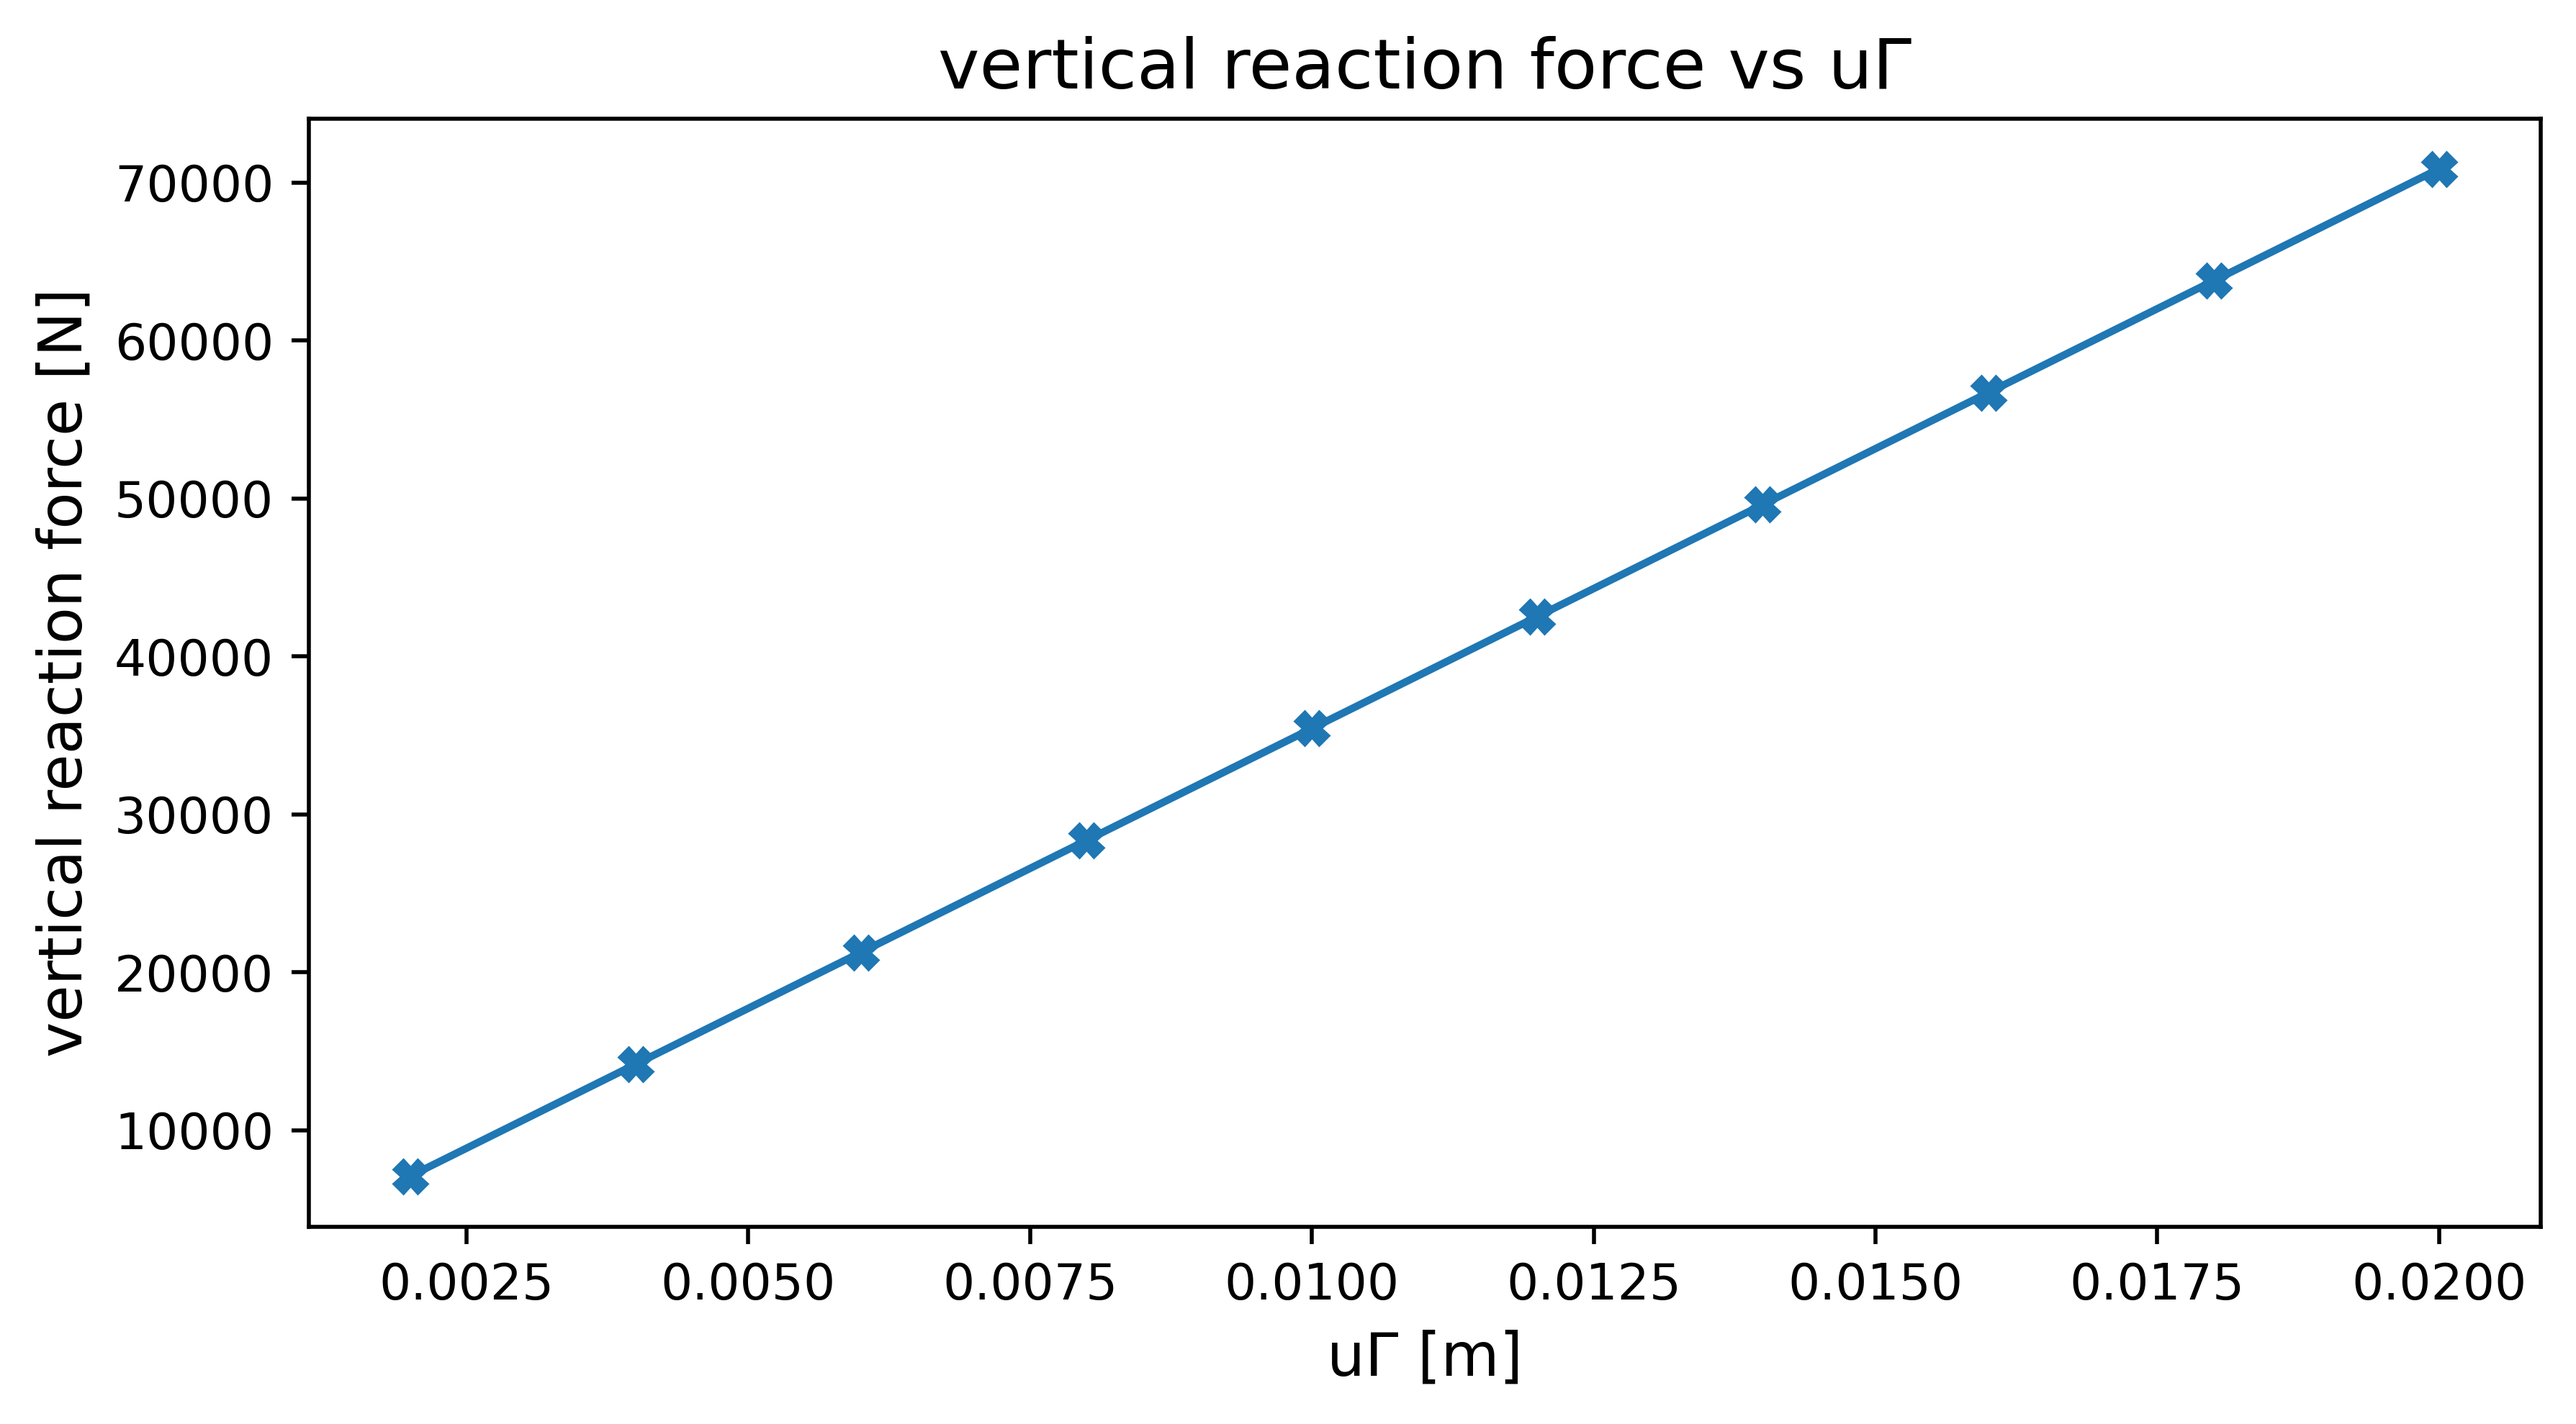
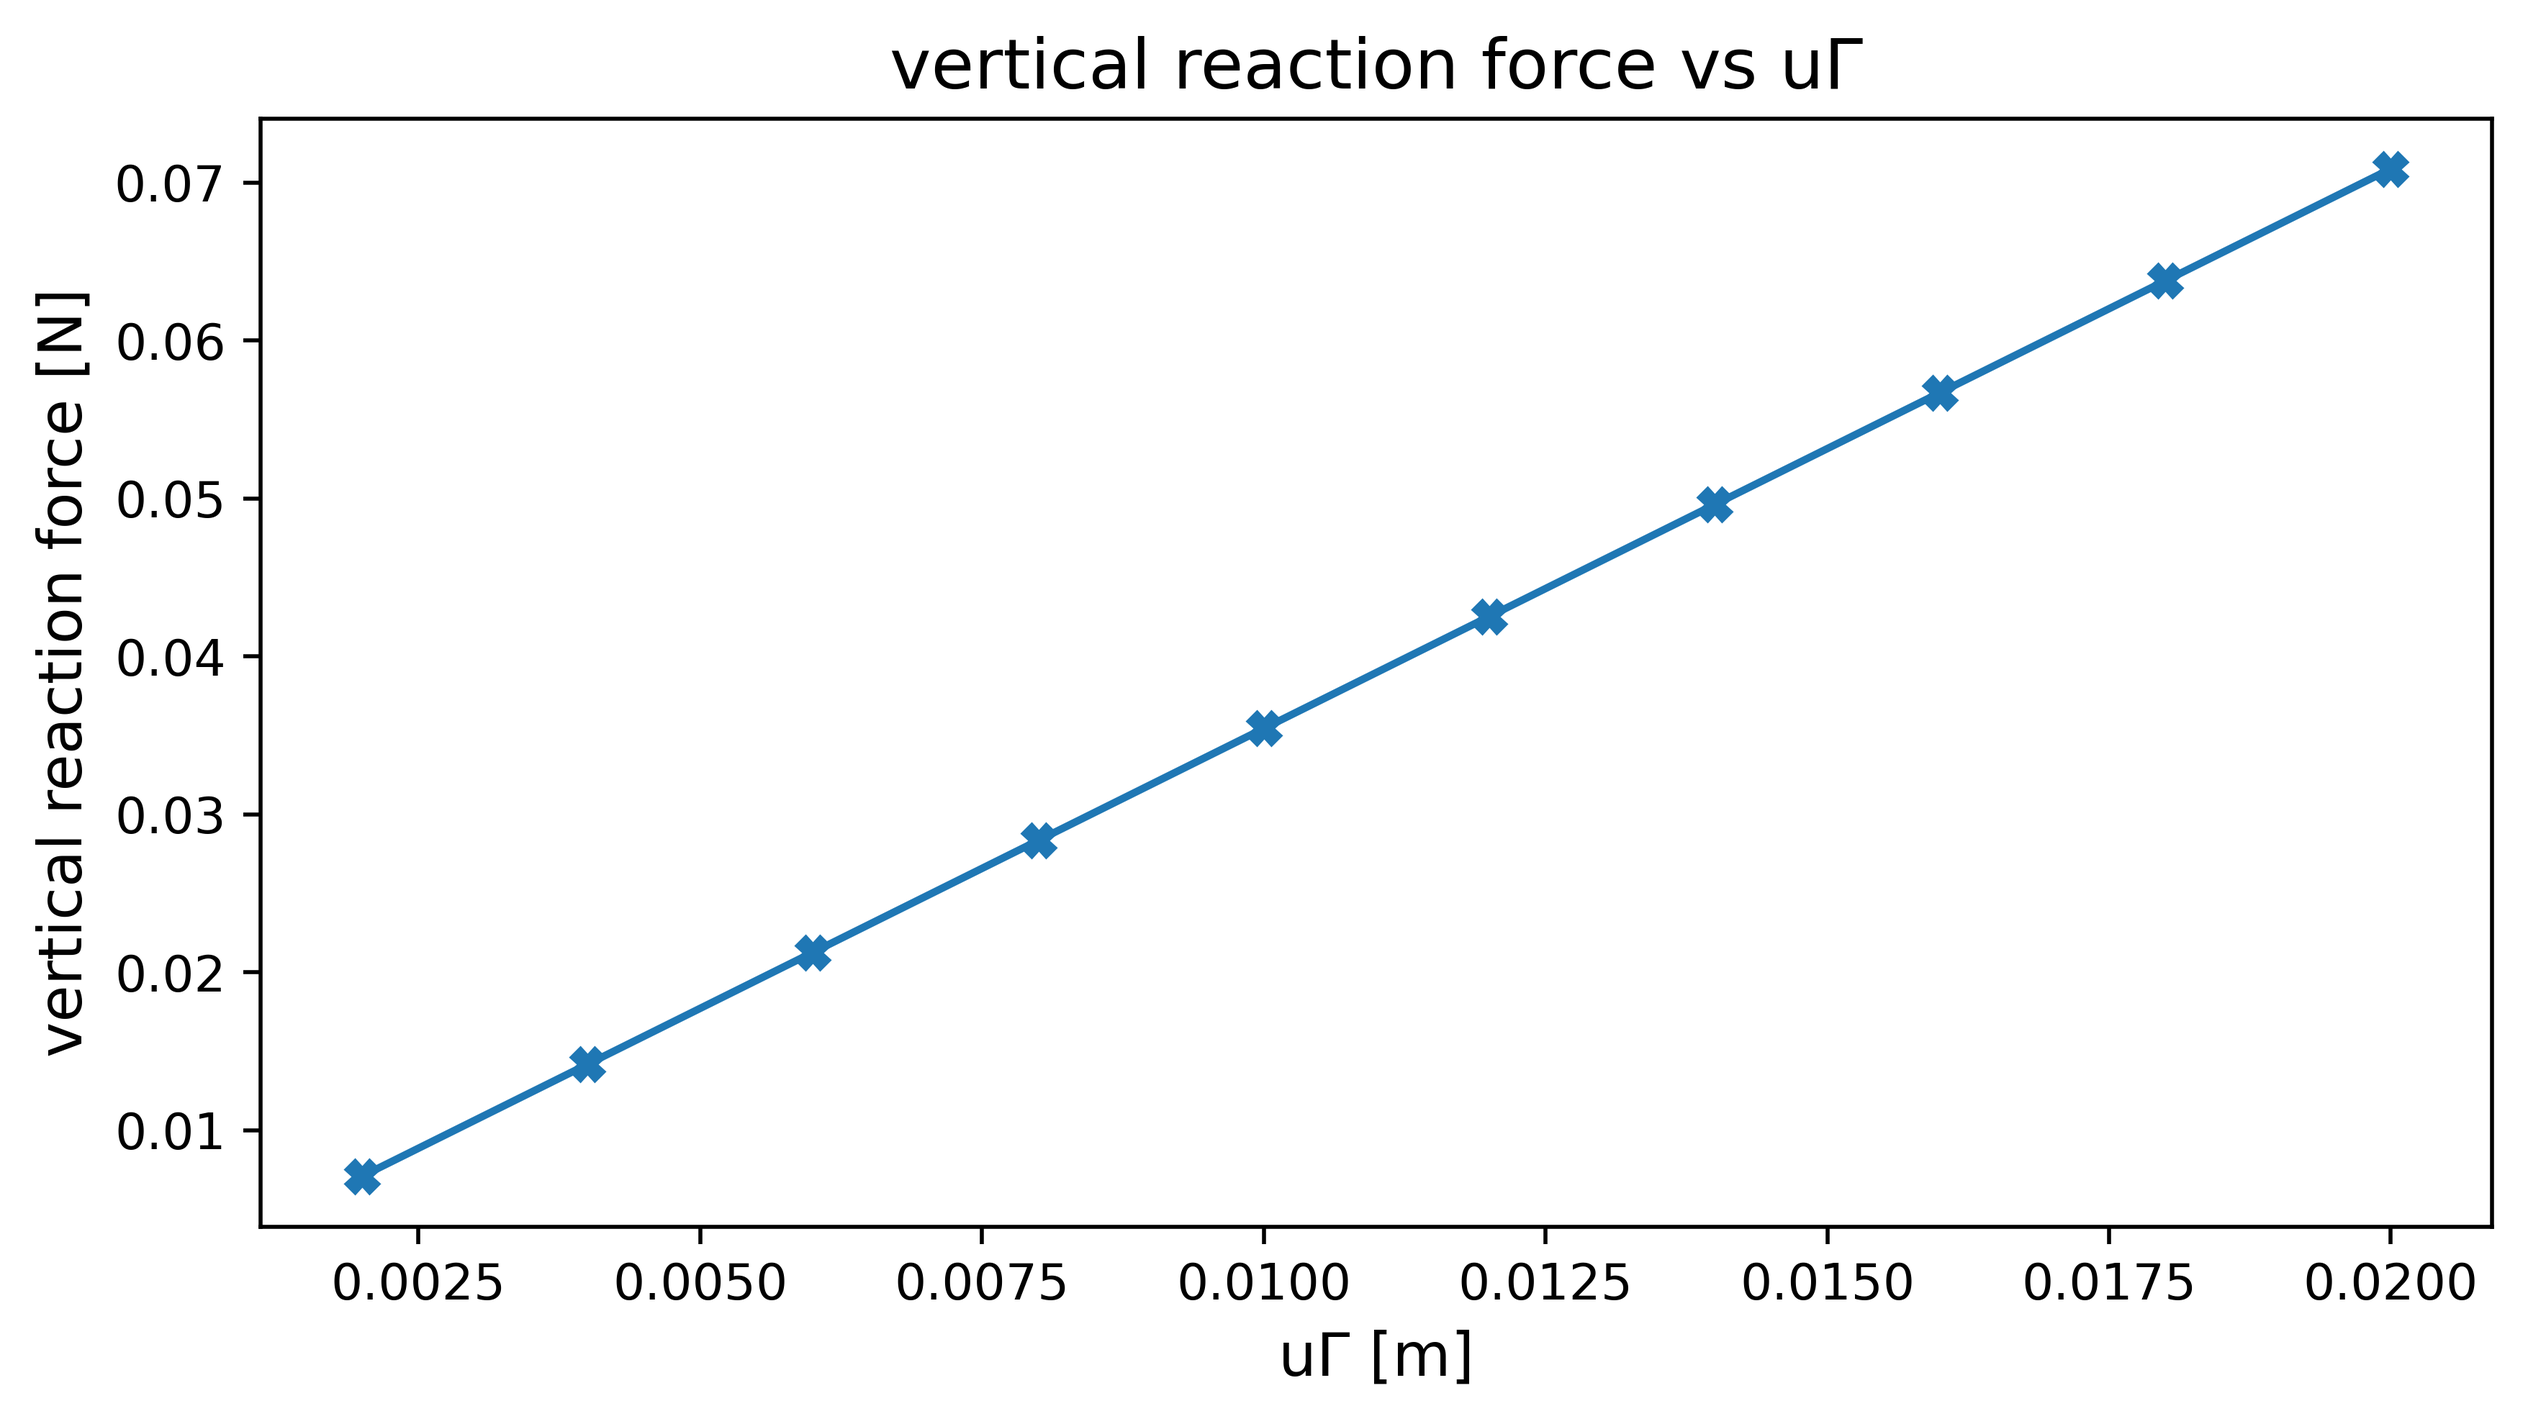
.

diff --git a/TME245/CA1a/testing_CA1a_TME245.py b/TME245/CA1a/testing_CA1a_TME245.py
@@ -333,7 +333,7 @@ new_subtask('Task 2 a) - Extension of CE1')
 # ------------------------------------------------------------------
 # Define inputs
 # ------------------------------------------------------------------
-E_val = 20e6 # Pa
+E_val = 20 # MPa
 nu_val = 0.45 
 
 # ------------------------------------------------------------------
@@ -585,9 +585,9 @@ lam_val = E_val * nu_val / ((1 + nu_val) * (1 - 2 * nu_val))
 c10 = G_val / 2
 c20 = - G_val / 10
 c30 = G_val / 30
-D1 = 0.02e-6 # 1 / Pa
-D2 = 0.01e-6
-D3 = 0.01e-6
+D1 = 0.02 # 1 / Pa
+D2 = 0.01
+D3 = 0.01
 
 # ------------------------------------------------------------------
 # Yeoh
@@ -826,6 +826,7 @@ def el6_yeoh(ex, ey, u, thickness=1.0, return_validation=False):
         # Deformation Gradient F
         F_mat = x_curr @ dN_dX.T
         F_vec = np.array([F_mat[0,0], F_mat[1,0], F_mat[0,1], F_mat[1,1]])
+        # F_vec = np.array([F_mat[0,0], F_mat[0,1], F_mat[1,0], F_mat[1,1]])
         
         # Lambdified Yeoh functions
         P_out = P_Yeoh_func(*F_vec)
@@ -840,6 +841,10 @@ def el6_yeoh(ex, ey, u, thickness=1.0, return_validation=False):
             [P_vec_val[0], P_vec_val[2]],
             [P_vec_val[1], P_vec_val[3]]
         ])
+        # P_tensor = np.array([
+        #     [P_vec_val[0], P_vec_val[1]], # 11, 12
+        #     [P_vec_val[2], P_vec_val[3]]  # 21, 22
+        # ])
         
         # Store for validation
         if return_validation:
@@ -862,6 +867,18 @@ def el6_yeoh(ex, ey, u, thickness=1.0, return_validation=False):
             B_gen[1, 2 * a + 1] = dN_dX1
             B_gen[2, 2 * a] = dN_dX2
             B_gen[3, 2 * a + 1] = dN_dX2
+            
+            # # Row 0: F11 (du/dX) -> use dN_dX1 on u_x (col 2*a)
+            # B_gen[0, 2 * a]     = dN_dX1
+            
+            # # Row 1: F12 (du/dY) -> use dN_dX2 on u_x (col 2*a)
+            # B_gen[1, 2 * a]     = dN_dX2  # Changed from index 2 to 1
+            
+            # # Row 2: F21 (dv/dX) -> use dN_dX1 on u_y (col 2*a+1)
+            # B_gen[2, 2 * a + 1] = dN_dX1  # Changed from index 1 to 2
+            
+            # # Row 3: F22 (dv/dY) -> use dN_dX2 on u_y (col 2*a+1)
+            # B_gen[3, 2 * a + 1] = dN_dX2
             
         # Ke contribution
         Ke += B_gen.T @ A_mat_val @ B_gen * dv
@@ -911,135 +928,8 @@ print(Ke_val[0:8, 0:8])
 new_subtask('Task 2 d) - Combine routines')
 ####################################################################################################
 #===================================================================================================
-
-
-"""
-def solve_task_2d(filename, n_steps = 20, u_final = 0.02, tol = 1e-6, max_iter = 10):
     
-    # ------------------------------------------------------------------
-    # Load mesh
-    # ------------------------------------------------------------------
-    try:
-        Ex,Ey,Edof,dof_upper,dof_lower,ndofs,nelem,nnodes=read_toplogy_from_mat_file(filename)
-    except FileNotFoundError:
-        print(f"Error: {filename} not found.")
-        return
-
-    ndof = int(np.max(Edof[:, 1:]) + 1)
-    nel = Edof.shape[0]
-    
-    # Initializate global displacements
-    a = np.zeros(ndof)
-    
-    # ------------------------------------------------------------------
-    # Time stepping
-    # ------------------------------------------------------------------
-    u_steps = np.linspace(0, u_final, n_steps + 1)
-    
-    force_history = []
-    disp_history = []
-
-    print(f"Starting Solver: {n_steps} steps, Target u_y = {u_final} mm")
-
-    for step, u_app in enumerate(u_steps):
-        if step == 0: 
-            force_history.append(0)
-            disp_history.append(0)
-            continue
-            
-        print(f"Step {step}/{n_steps}, Applied Disp: {u_app:.2f} mm")
-        
-        bc_dofs = []
-        bc_vals = []
-        
-        top_y_dofs = [d for d in dof_upper if d % 2 == 1]
-        bot_y_dofs = [d for d in dof_lower if d % 2 == 1]
-        
-        # Fix Bottom Y
-        bc_dofs.extend(bot_y_dofs)
-        bc_vals.extend([0.0] * len(bot_y_dofs))
-        
-        # Fix Top Y
-        bc_dofs.extend(top_y_dofs)
-        bc_vals.extend([u_app] * len(top_y_dofs))
-        
-        # Fix Rigid Body X (Fix first X dof found in bottom set)
-        if len(dof_lower) > 0:
-            # Find an X dof (even index)
-            bot_x_dofs = [d for d in dof_lower if d % 2 == 0]
-            if bot_x_dofs:
-                 bc_dofs.append(bot_x_dofs[0])
-                 bc_vals.append(0.0)
-        
-        bc_dofs = np.array(bc_dofs, dtype=int)
-        bc_vals = np.array(bc_vals)
-        
-        # ------------------------------------------------------------------
-        # Newton-Raphson Loop
-        # ------------------------------------------------------------------
-    
-        # Update Dirichlet BCs in current displacement vector a
-        a[bc_dofs] = bc_vals
-        
-        for it in range(max_iter):
-            # Assembly
-            rows, cols, data = [], [], []
-            f_int = np.zeros(ndof)
-            
-            for el in range(nel):
-                edof = Edof[el, 1:].astype(int) - 1  # Convert to 0-based indices
-                u_loc = a[edof]
-                
-                # Extract element-specific coordinates
-                ex_el = Ex[el, :]
-                ey_el = Ey[el, :]
-                
-                Ke, fe = el6_yeoh(ex_el, ey_el, u_loc, thickness=0.001)
-                
-                f_int[edof] += fe
-                
-                # ------------------------------------------------------------------
-                # Sparse matrix assembly data
-                # ------------------------------------------------------------------
-                for i in range(12):
-                    for j in range(12):
-                        rows.append(edof[i])
-                        cols.append(edof[j])
-                        data.append(Ke[i, j])
-            
-            K_global = coo_matrix((data, (rows, cols)), shape=(ndof, ndof)).tocsr()
-            
-            free_dofs = np.setdiff1d(np.arange(ndof), bc_dofs)
-            
-            r = f_int[free_dofs]
-            
-            res_norm = np.linalg.norm(r)
-            
-            if res_norm < tol:
-                print(f"  Converged in {it} iterations.")
-                break
-            
-            # ------------------------------------------------------------------
-            # Solve Linear System
-            # ------------------------------------------------------------------
-            K_free = K_global[free_dofs, :][:, free_dofs]
-            
-            da_free = spla.spsolve(K_free, -r)
-            
-            a[free_dofs] += da_free
-        
-        # ------------------------------------------------------------------
-        # Store results
-        # ------------------------------------------------------------------
-        Ry_top = np.sum(f_int[top_y_dofs])
-        force_history.append(Ry_top)
-        print(f'Sum of reaction forces: {Ry_top:.2f}')
-        disp_history.append(u_app)
-    
-    return a, disp_history, force_history
-    """
-    
-def solve_task_2d(filename, n_steps=50, tol=1e-6, u_final=0.02, max_iter=25):
+def solve_task_2d(filename, n_steps=50, tol=1e-6, u_final=20, h=100, max_iter=25):
     
     # ------------------------------------------------------------------
     # 1. Load Mesh
@@ -1057,19 +947,6 @@ def solve_task_2d(filename, n_steps=50, tol=1e-6, u_final=0.02, max_iter=25):
     
     # Initialize global displacements
     a = np.zeros(ndof)
-    
-    print("\n" + "="*80)
-    print("DEBUGGING BOUNDARY DOF INFORMATION")
-    print("="*80)
-    print(f"Total DOFs in system: {ndof}")
-    print(f"\ndof_upper (1-based from MATLAB):")
-    print(f"  First 20: {dof_upper[:20]}")
-    print(f"  Length: {len(dof_upper)}")
-    print(f"  Min: {np.min(dof_upper)}, Max: {np.max(dof_upper)}")
-    print(f"\ndof_lower (1-based from MATLAB):")
-    print(f"  First 20: {dof_lower[:20]}")
-    print(f"  Length: {len(dof_lower)}")
-    print(f"  Min: {np.min(dof_lower)}, Max: {np.max(dof_lower)}")
     
     # ------------------------------------------------------------------
     # PRECOMPUTE SPARSE PATTERN ONCE (THIS IS THE KEY OPTIMIZATION!)
@@ -1128,58 +1005,7 @@ def solve_task_2d(filename, n_steps=50, tol=1e-6, u_final=0.02, max_iter=25):
         # 4. Newton-Raphson Loop
         # ------------------------------------------------------------------
         converged = False
-        
-        if step == 1:  # Only print for first step
-            print(f"\nAfter filtering for Y-DOFs:")
-            print(f"  top_y_dofs (0-based): {top_y_dofs[:20]}")
-            print(f"  bot_y_dofs (0-based): {bot_y_dofs[:20]}")
-            print(f"  bot_x_dofs (0-based): {bot_x_dofs[:20] if len(bot_x_dofs) > 20 else bot_x_dofs}")
-            print(f"\nTotal BC DOFs: {len(bc_dofs)}")
-            print(f"Total Free DOFs: {ndof - len(bc_dofs)}")
-            print(f"BC DOFs as % of total: {100*len(bc_dofs)/ndof:.1f}%")
-            
-            # Check if any BC DOFs are out of range
-            if np.any(bc_dofs < 0) or np.any(bc_dofs >= ndof):
-                print(f"\n*** ERROR: Some BC DOFs are out of range! ***")
-                print(f"  Out of range DOFs: {bc_dofs[(bc_dofs < 0) | (bc_dofs >= ndof)]}")
-        
-        # for it in range(max_iter):
-        #     # Assembly
-        #     rows, cols, data = [], [], []
-        #     f_int = np.zeros(ndof)
-            
-        #     # --- Element Loop ---
-        #     for el in range(nel):
-        #         # Edof is likely 1-based from Matlab, convert to 0-based
-        #         edof_indices = Edof[el, 1:].astype(int) - 1 
-                
-        #         u_loc = a[edof_indices]
-        #         ex_el = Ex[el, :]
-        #         ey_el = Ey[el, :]
-                
-        #         # CALL ELEMENT ROUTINE
-        #         Ke, fe = el6_yeoh(ex_el, ey_el, u_loc, thickness=100e-3) 
-                
-        #         # Check for Element Failure (NaN)
-        #         if np.any(np.isnan(fe)):
-        #             print(f"\n[Error] Element {el} inverted (NaN force). Solver stopped.")
-        #             return a, disp_history, force_history
-                
-        #         f_int[edof_indices] += fe
-                
-        #         # Store sparse data
-        #         for i in range(12):
-        #             for j in range(12):
-        #                 rows.append(edof_indices[i])
-        #                 cols.append(edof_indices[j])
-        #                 data.append(Ke[i, j])
-            
-            # # Create Global Stiffness
-            # K_global = coo_matrix((data, (rows, cols)), shape=(ndof, ndof)).tocsr()
-            
-            # Calculate Residual: r = F_ext - F_int
-            # For free DOFs, F_ext = 0, so r = -F_int
-            
+                    
         for it in range(max_iter):
             # ------------------------------------------------------------------
             # Assembly - EFFICIENT VERSION using precomputed pattern
@@ -1198,7 +1024,7 @@ def solve_task_2d(filename, n_steps=50, tol=1e-6, u_final=0.02, max_iter=25):
                 ey_el = Ey[el, :]
                 
                 # CALL ELEMENT ROUTINE
-                Ke, fe = el6_yeoh(ex_el, ey_el, u_loc, thickness=100e-3) 
+                Ke, fe = el6_yeoh(ex_el, ey_el, u_loc, thickness=h) 
                 
                 # Check for Element Failure (NaN)
                 if np.any(np.isnan(fe)):
@@ -1267,24 +1093,27 @@ def solve_task_2d(filename, n_steps=50, tol=1e-6, u_final=0.02, max_iter=25):
             break
 
     return a, disp_history, force_history
+#%%
 
 #%%
 # ------------------------------------------------------------------
 printt('Run solver')
 # ------------------------------------------------------------------
-a, disp_history, force_history = solve_task_2d('topology_coarse_6node.mat', n_steps=30, tol=1e-5, u_final=0.02)
+a, disp_history, force_history = solve_task_2d('topology_coarse_6node.mat', n_steps=300, tol=1e-5, u_final=100, h=100)
 
 #%%
 
 # ------------------------------------------------------------------
 # Plot graphs
 # ------------------------------------------------------------------
+title = 'Total Vertical Reaction Force vs Displacement'
 plt.figure()
 plt.plot(disp_history, force_history, '-o')
-plt.title('Total Vertical Reaction Force vs Displacement')
+plt.title(title)
 plt.xlabel('Displacement u_Gamma [m]')
 plt.ylabel('Reaction Force [N]')
 plt.grid(True)
+sfig(title)
 plt.show()
 
 title = 'total vertical on the upper boundary of the rubber profile vs uΓ'
